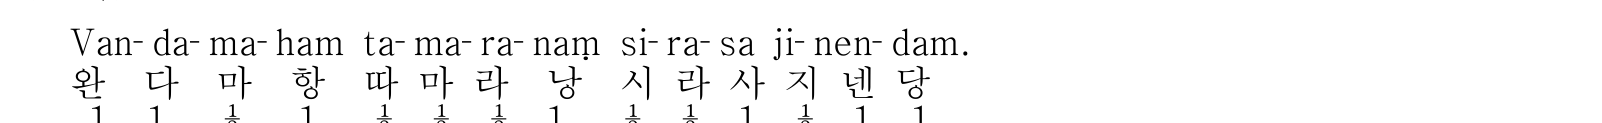
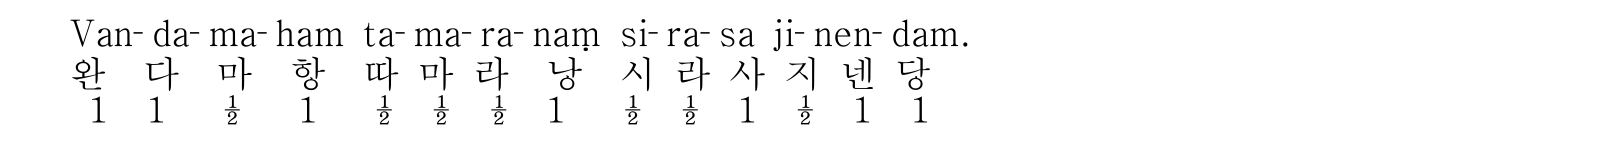
DL-0027: 6쪽 운율 보기 그림 아래 박자 줄이 잘리지 않게
Claude-Session: https://claude.ai/code/session_01RnkQEfzLvddozHd6L1qEbg

diff --git a/tools/pdf2text_dl0027.py b/tools/pdf2text_dl0027.py
@@ -307,7 +307,7 @@ for P in PAGES:
         for a, b in JUST5: paras = [x.replace(a, b) for x in paras]
     elif n == 6:
         # 표기법 표·운율 보기·반복 기호 보기는 인쇄본 그대로 그림으로, 나머지 설명은 글로
-        cuts = [((112, 264), 'table', '빨리어 한글표기 표'), ((526, 566), 'rhythm', '담마윳의 전통적인 운율 보기'), ((655, 676), 'repeat', '∰ ∰ 기호 보기')]
+        cuts = [((112, 264), 'table', '빨리어 한글표기 표'), ((529, 576), 'rhythm', '담마윳의 전통적인 운율 보기'), ((655, 676), 'repeat', '∰ ∰ 기호 보기')]
         paras = []; rest = P['lines']
         for (a, b), nm, cap in cuts:
             before = [l for l in rest if l['c'] < a]; rest = [l for l in rest if l['c'] > b]
